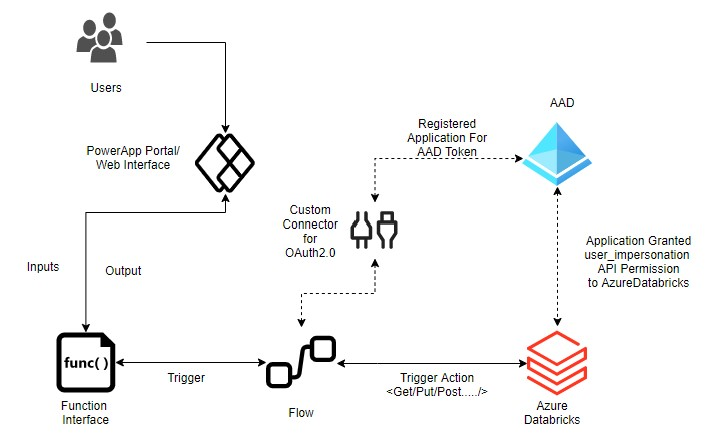
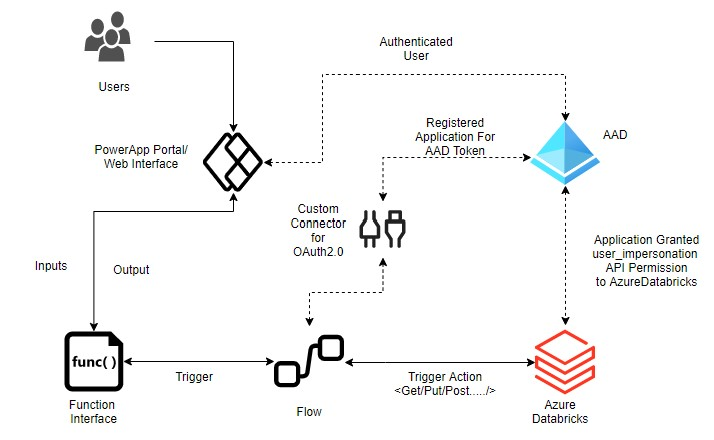
added more details

diff --git a/README.md b/README.md
@@ -1,13 +1,55 @@
 # Building Native OAuth2.0 based Flow Integration with Azure Databricks
 
-In this small repo, we are trying to show how easy and out-of-box to set up OAuth2.0 based Microsoft Flow integration with Azure Databricks.
+In this small repo, we are trying to show how easy and out-of-box to set up Azure Active Directory (AAD) OAuth2.0 based Power Apps Flow integration with Azure Databricks.
 
     # Note: Same approach (almost 99.9%) can be repeated if you are using Azure Logic App for building any Businss Integration Solution
 
-Scenario: 
+## Scenario:
 
-- *End User to System:* There is front end portalm which can be accessed by authorized user. This portal has one interface which is nothing just some function <code/ or javascript/ let's take example>. User can interract can trigger this function by feeding information or it can be static function without input (use case be anything). 
+- *End User to System:* There is front end portal which can be accessed by authenticated/authorized user from Azure AD (AAD). This portal has one interface which is nothing but some function or code button <behind the scene code/ or javascript/ let's assume>. User can interract can trigger this function by feeding information or it can be static function without input (use case be anything). 
 
-- *Portal to Flow:* Once function trigger, it basically trigger Microsoft Flow behind the scene (Logic App equivalent in Azure, based upon http request). 
+- *Portal to Power Apps Flow:* Once function trigger, it basically trigger Microsoft Flow behind the scene (Logic App equivalent in Azure, based upon http request). Gone are those days, where we need to club everything together. Using Flow/Logic App, application process can be easily de-coupled. 
 
-- *
+- *Power Apps Flow to Azure Databricks (ADB):* Now comes the interesting part, ADB can be non-interactively consumed from using various ways. In this repo, we shall how Natively Flow can talk to ADB and seamless OAuth token exchange happen and query execution happen.
+
+
+## High Level Design
+
+Using combination of various component. We can achieve seamless secure natively authenticatd request flow to ADB. 
+
+![](Architecture/ADBPowerApp.jpg)
+
+### Components in Play
+- Power Apps Customer Connector
+- Power Apps Flow
+- Azure Databricks 
+- Azure Active Directory Application
+- Azure Active Directory Application API Permission
+
+> Assumption: You have Power Apps Portal already set up. We shall only show how to set up integration Flow to ADB
+
+### Steps
+
+> Assumption: You have AAD Application Created for ADB and have noted down Application ID and Associated Secret. 
+
+1. Build Custom Connector
+
+    1.1. Add Custom Connect
+    
+    1.2. Add Securtiy Details
+
+    1.3 Update AAD Application Return URL
+
+    1.4 Add AAD Application API Permission for ADB
+
+    1.5 Add Definition
+
+    1.6 Test Connector
+
+2. Create Connection
+
+3. Create Flow and Test Connection
+
+
+
+
